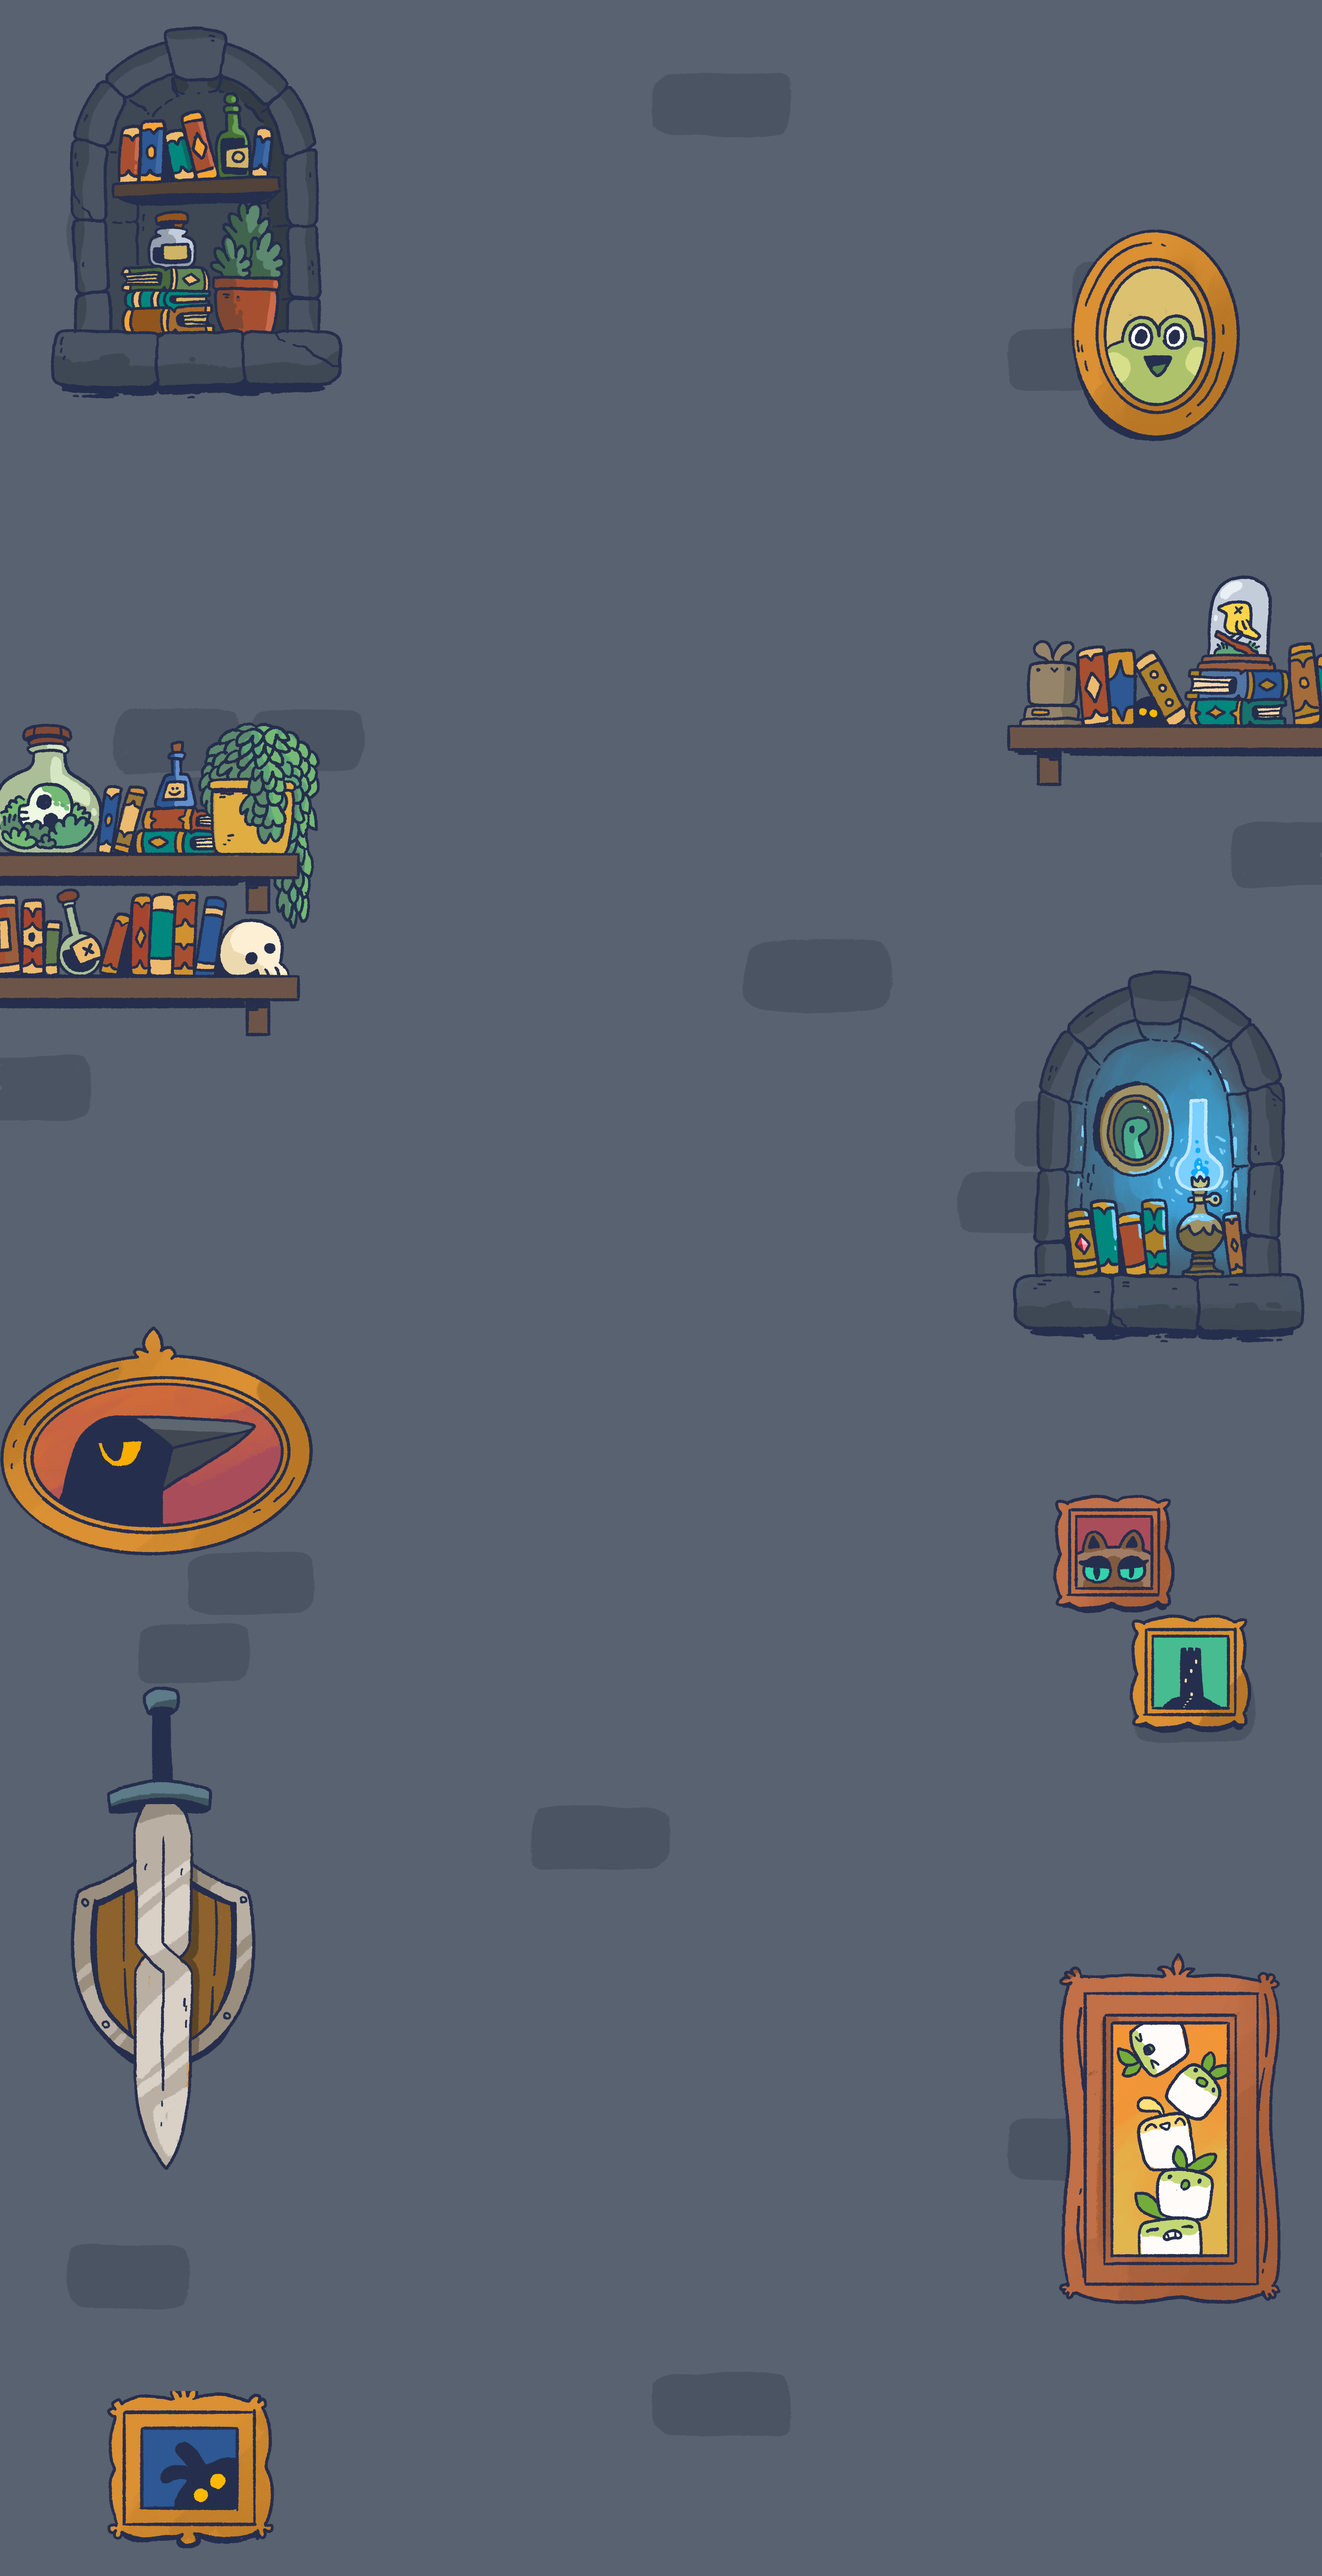
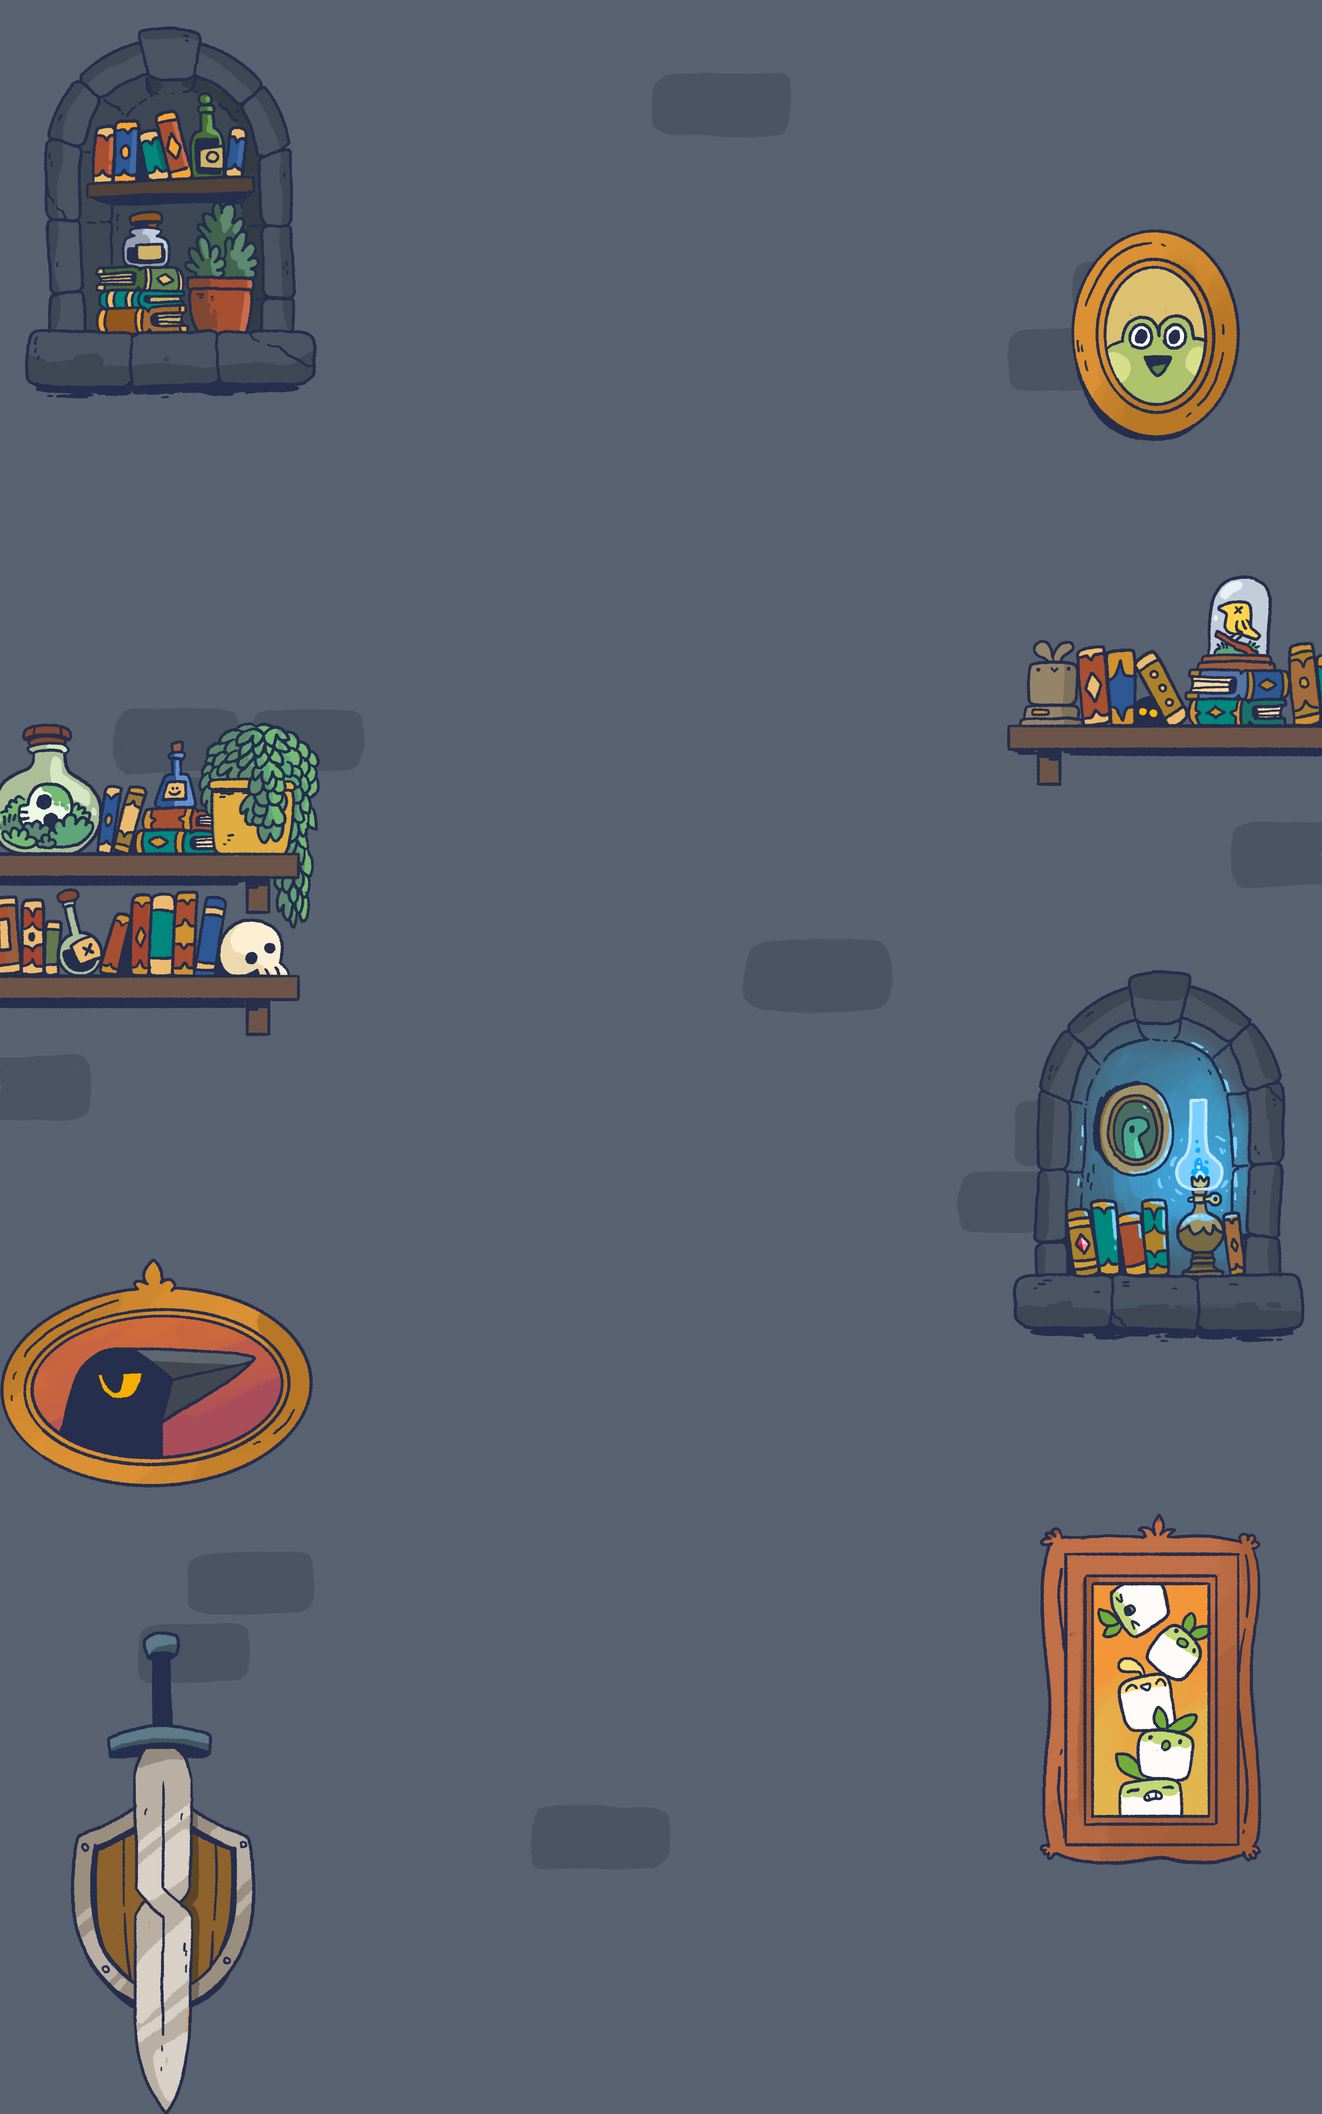
added background spacer and site title

diff --git a/docs/styles.css b/docs/styles.css
@@ -6,7 +6,9 @@
 }
 :root {
     --header-height: 3089/4096;
-    --background-height: 7980/4096;
+    --background-height: 6550/4096;
+    --top-spacer-height: 817/4096;
+    --bottom-spacer-height: 613/4096;
     --footer-height: 5027/4096;
 }
 body {
@@ -271,6 +273,23 @@ p {
     width:70%;
     font-size: 3.75vw;
 }
+#top-spacer {
+    background-image: url("resources/TopSpacer.png");
+    height:calc(200vw * var(--top-spacer-height)); /*img height / width * 200*/
+    background-position:center top;
+    background-repeat:no-repeat;
+    background-size:cover;
+    position:relative;
+}
+#bottom-spacer {
+    background-image: url("resources/BottomSpacer.png");
+    height:calc(200vw * var(--bottom-spacer-height)); /*img height / width * 200*/
+    background-position:center top;
+    background-repeat:no-repeat;
+    background-size:cover;
+    position:relative;
+    display:none;
+}
 #footer-image {
     background-image: url("resources/FooterBackground.png");
     height:calc(200vw * var(--footer-height));
@@ -373,6 +392,9 @@ p {
     #orange-banner h2, #blue-banner h2 {
         font-size: 4vw;
     }
+    #top-spacer {
+        display:none;
+    }
 }
 @media only screen and (min-width:960px)
 {
@@ -454,6 +476,14 @@ p {
     #orange-banner h2, #blue-banner h2 {
         font-size: 2vw;
     }
+    #top-spacer {
+        display:block;
+        height:calc(100vw * var(--top-spacer-height));
+    }
+    #bottom-spacer {
+        display:block;
+        height:calc(100vw * var(--bottom-spacer-height));
+    }
 }
 @media only screen and (min-aspect-ratio: 2) {
 #modal-back-button {
@@ -461,6 +491,5 @@ p {
 } 
 #modal-forward-button {
     right: calc(((100vw - 160vh) / 2 - 5%) / 2);
-
 }
 }

diff --git a/docs/index.html b/docs/index.html
@@ -136,6 +136,10 @@
                     </div>
             </div>
         </div>
+        <div id="top-spacer">
+        </div>
+        <div id="bottom-spacer">
+        </div>
         <div id="footer-image">
                 <div id="legal">
                 <p>&copy; 2025 &middot; Hidden Variable Studios</p>
